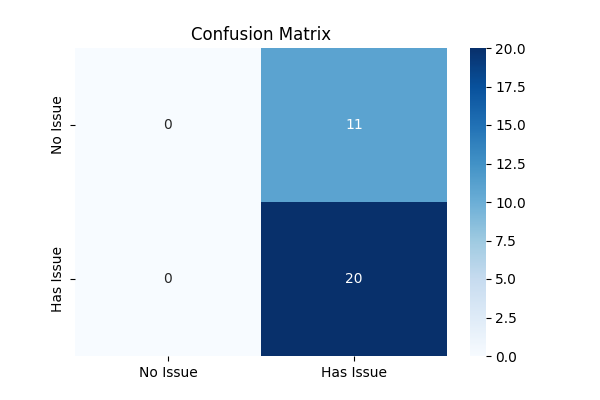
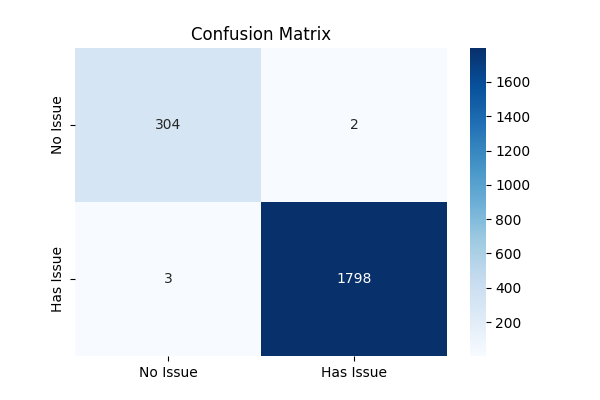
Updated ann.py

diff --git a/server/ann.py b/server/ann.py
@@ -5,6 +5,7 @@ from sklearn.neural_network import MLPClassifier
 from sklearn.model_selection import train_test_split, cross_val_score
 from sklearn.metrics import accuracy_score, classification_report, confusion_matrix
 from sklearn.pipeline import Pipeline
+from sklearn.impute import SimpleImputer
 from sklearn.inspection import permutation_importance
 from imblearn.over_sampling import SMOTE
 import matplotlib.pyplot as plt
@@ -13,7 +14,6 @@ import joblib
 import os
 
 class MentalHealthANN:
-  
     def __init__(self, df: pd.DataFrame = None, target: str = 'Mental_Health_Issue'):
         self.df = df
         self.target = target
@@ -28,9 +28,14 @@ class MentalHealthANN:
 
     def preprocess_data(self):
         # Validate required columns
-        required_cols = ['Choose your gender', 'What is your course?', 'Your current year of Study',
-                        'What is your CGPA?', 'Do you have Depression?', 'Do you have Anxiety?',
-                        'Do you have Panic attack?', 'Age']
+        required_cols = [
+            'Age', 'Course', 'Gender', 'CGPA', 'Stress_Level', 'Depression_Score',
+            'Anxiety_Score', 'Sleep_Quality', 'Physical_Activity', 'Diet_Quality',
+            'Social_Support', 'Relationship_Status', 'Substance_Use',
+            'Counseling_Service_Use', 'Family_History', 'Chronic_Illness',
+            'Financial_Stress', 'Extracurricular_Involvement', 'Semester_Credit_Load',
+            'Residence_Type'
+        ]
         missing_cols = [col for col in required_cols if col not in self.df.columns]
         if missing_cols:
             raise ValueError(f"Missing columns in dataset: {missing_cols}")
@@ -38,76 +43,85 @@ class MentalHealthANN:
         # Create target variable
         try:
             self.df[self.target] = (
-                (self.df['Do you have Depression?'] == 'Yes').astype(int) |
-                (self.df['Do you have Anxiety?'] == 'Yes').astype(int) |
-                (self.df['Do you have Panic attack?'] == 'Yes').astype(int)
+                (self.df['Depression_Score'] >= 3).astype(int) |
+                (self.df['Anxiety_Score'] >= 3).astype(int) |
+                (self.df['Stress_Level'] >= 3).astype(int)
             )
         except KeyError as e:
             raise ValueError(f"Error creating target variable: {str(e)}")
 
-        # Handle missing Age
-        self.df['Age'] = pd.to_numeric(self.df['Age'], errors='coerce').fillna(self.df['Age'].median())
+        # Initialize processed DataFrame
+        processed_data = pd.DataFrame(index=self.df.index)
 
-        # Encode categorical features
-        try:
-            self.label_encoders['gender'] = LabelEncoder()
-            self.df['Gender'] = self.label_encoders['gender'].fit_transform(
-                self.df['Choose your gender'].str.lower().fillna('unknown'))
-        except Exception as e:
-            raise ValueError(f"Error encoding Gender: {str(e)}")
+        # Handle numerical features
+        numerical_cols = [
+            'Age', 'CGPA', 'Stress_Level', 'Depression_Score', 'Anxiety_Score',
+            'Semester_Credit_Load'
+        ]
+        imputer = SimpleImputer(strategy='median')
+        numerical_data = pd.DataFrame(
+            imputer.fit_transform(self.df[numerical_cols]),
+            columns=numerical_cols,
+            index=self.df.index
+        )
+        processed_data = processed_data.join(numerical_data)
 
-        # Group majors to reduce sparsity
-        stem_majors = ['engineering', 'bit', 'bcs', 'it', 'biomedical science', 'marine science',
-                       'biotechnology', 'radiography', 'nursing', 'cts', 'koe', 'engin', 'engine']
-        social_majors = ['psychology', 'human sciences', 'laws', 'law', 'communication', 'islamic education',
-                         'pendidikan islam', 'usuluddin', 'fiqh', 'fiqh fatwa', 'human resources',
-                         'business administration', 'banking studies', 'econs', 'diploma tesl']
-        try:
-            self.df['Major_Group'] = self.df['What is your course?'].str.lower().apply(
-                lambda x: 'STEM' if isinstance(x, str) and any(m in x.lower() for m in stem_majors) else
-                          'Social Sciences' if isinstance(x, str) and any(m in x.lower() for m in social_majors) else 'Other')
-            self.label_encoders['major'] = LabelEncoder()
-            self.df['Major'] = self.label_encoders['major'].fit_transform(self.df['Major_Group'])
-        except Exception as e:
-            raise ValueError(f"Error encoding Major: {str(e)}")
-
-        # Extract year number and convert to float
-        try:
-            self.df['Year'] = self.df['Your current year of Study'].str.lower().str.extract(r'(\d+)').astype(float).fillna(1.0)
-        except Exception as e:
-            raise ValueError(f"Error processing Year: {str(e)}")
-
-        # Convert GPA ranges to numerical values
-        gpa_map = {
-            '0 - 1.99': 1.0, '2.00 - 2.49': 2.25, '2.50 - 2.99': 2.75,
-            '3.00 - 3.49': 3.25, '3.50 - 4.00': 3.75
+        # Handle categorical features with ordinal encoding
+        categorical_cols = [
+            'Gender', 'Course', 'Sleep_Quality', 'Physical_Activity', 'Diet_Quality',
+            'Social_Support', 'Relationship_Status', 'Substance_Use',
+            'Counseling_Service_Use', 'Family_History', 'Chronic_Illness',
+            'Residence_Type', 'Financial_Stress', 'Extracurricular_Involvement'
+        ]
+        ordinal_mappings = {
+            'Financial_Stress': {'unknown': 0, 'low': 0, 'moderate': 1, 'high': 2},
+            'Extracurricular_Involvement': {'unknown': 0, 'low': 0, 'moderate': 1, 'high': 2},
+            'Sleep_Quality': {'unknown': 0, 'poor': 0, 'average': 1, 'good': 2},
+            'Physical_Activity': {'unknown': 0, 'low': 0, 'moderate': 1, 'high': 2},
+            'Diet_Quality': {'unknown': 0, 'poor': 0, 'average': 1, 'good': 2},
+            'Social_Support': {'unknown': 0, 'low': 0, 'moderate': 1, 'high': 2}
         }
-        try:
-            self.df['GPA'] = self.df['What is your CGPA?'].map(gpa_map).fillna(3.0)
-        except Exception as e:
-            raise ValueError(f"Error processing GPA: {str(e)}")
+        for col in categorical_cols:
+            try:
+                self.df[col] = self.df[col].replace(['', ' ', None, np.nan], 'unknown').astype(str).str.lower()
+                if col in ordinal_mappings:
+                    processed_data[col] = self.df[col].map(ordinal_mappings[col]).fillna(0).astype(int)
+                else:
+                    self.label_encoders[col] = LabelEncoder()
+                    processed_data[col] = self.label_encoders[col].fit_transform(self.df[col])
+            except Exception as e:
+                raise ValueError(f"Error encoding {col}: {str(e)}")
 
-        # Select features and handle missing values
-        features = ['Gender', 'Age', 'Major', 'Year', 'GPA']
+        # Validate column lengths
+        for col in processed_data.columns:
+            if len(processed_data[col]) != len(self.df):
+                raise ValueError(f"Column {col} has {len(processed_data[col])} samples, expected {len(self.df)}")
+
+        # Select features and ensure no NaNs
+        features = numerical_cols + categorical_cols
         try:
-            self.df[features] = self.df[features].fillna(self.df[features].mean())
-            self.X = self.df[features]
+            self.X = processed_data[features]
             self.y = self.df[self.target]
+            if self.X.isna().any().any():
+                raise ValueError("NaN values remain in features after preprocessing")
+            if len(self.X) != len(self.y):
+                raise ValueError(f"X has {len(self.X)} samples, y has {len(self.y)} samples")
         except KeyError as e:
             raise ValueError(f"Error selecting features: {str(e)}")
 
         print(f"Dataset size: {self.X.shape[0]} samples")
-        print(f"Class distribution:\n{self.y.value_counts()}")
+        print(f"Class distribution:\n{self.y.value_counts(normalize=True)}")
 
     def plot_correlation_heatmap(self):
         if self.X is None or self.y is None:
             raise ValueError("Data not preprocessed. Call preprocess_data() first.")
-        corr_matrix = self.df[['Gender', 'Age', 'Major', 'Year', 'GPA', self.target]].corr()
-        plt.figure(figsize=(8, 6))
+        corr_cols = ['Age', 'CGPA', 'Stress_Level', 'Depression_Score', 'Anxiety_Score', self.target]
+        corr_matrix = pd.concat([self.X[corr_cols[:-1]], self.y], axis=1).corr()
+        plt.figure(figsize=(10, 8))
         sns.heatmap(corr_matrix, annot=True, cmap='coolwarm', vmin=-1, vmax=1, center=0)
-        plt.title('Correlation Heatmap: Mental Health and Features')
+        plt.title('Correlation Heatmap: Mental Health and Key Features')
         plt.tight_layout()
-        plt.savefig('heatmap.png')
+        plt.savefig('server/heatmap.png')
         plt.close()
 
     def is_trained(self):
@@ -128,16 +142,18 @@ class MentalHealthANN:
             self.X, self.y, test_size=0.3, random_state=42, stratify=self.y)
 
         # Handle class imbalance with SMOTE
-        smote = SMOTE(random_state=42, k_neighbors=3)  # Reduced k_neighbors for small dataset
+        minority_count = min(y_train.value_counts())
+        k_neighbors = min(5, minority_count - 1) if minority_count > 1 else 1
+        smote = SMOTE(random_state=42, k_neighbors=k_neighbors)
         X_train_res, y_train_res = smote.fit_resample(X_train, y_train)
 
         pipeline = Pipeline([
             ('scaler', StandardScaler()),
             ('mlp', MLPClassifier(
-                hidden_layer_sizes=(10, 5),  # Reduced to prevent overfitting
+                hidden_layer_sizes=(20, 10),
                 activation='relu',
                 solver='adam',
-                alpha=0.01,  # Stronger regularization
+                alpha=0.001,
                 learning_rate='adaptive',
                 max_iter=max_iter,
                 random_state=42,
@@ -154,7 +170,7 @@ class MentalHealthANN:
         y_pred = pipeline.predict(X_test)
         print(f"\nAccuracy: {accuracy_score(y_test, y_pred):.2f}")
         print("\nClassification Report:")
-        print(classification_report(y_test, y_pred))
+        print(classification_report(y_test, y_pred, zero_division=0))
 
         # Cross-validation
         cv_scores = cross_val_score(pipeline, self.X, self.y, cv=5, scoring='recall_macro')
@@ -167,7 +183,7 @@ class MentalHealthANN:
                     xticklabels=['No Issue', 'Has Issue'],
                     yticklabels=['No Issue', 'Has Issue'])
         plt.title('Confusion Matrix')
-        plt.savefig('confusion_matrix.png')
+        plt.savefig('server/confusion_matrix.png')
         plt.close()
 
         # Feature importance
@@ -182,20 +198,31 @@ class MentalHealthANN:
     def predict_from_dict(self, input_data: dict):
         if not self.is_trained():
             raise Exception("Model not trained. Call train() first.")
-        try:
-            # Prepare input DataFrame with column names
-            major = str(input_data.get('major', 'STEM')).lower()
-            if major not in self.label_encoders['major'].classes_:
-                major = 'STEM'  # Fallback to a known category
-            input_df = pd.DataFrame([{
-                'Gender': self.label_encoders['gender'].transform(
-                    [str(input_data.get('gender', 'Male')).lower()])[0],
-                'Age': float(input_data.get('age', 20)),
-                'Major': self.label_encoders['major'].transform([major])[0],
-                'Year': float(input_data.get('year', 2)),
-                'GPA': float(input_data.get('gpa', 3.5))
-            }], columns=['Gender', 'Age', 'Major', 'Year', 'GPA'])
 
+        try:
+            input_dict = {}
+            for col in self.X.columns:
+                if col in self.label_encoders:
+                    val = str(input_data.get(col.lower(), 'unknown')).lower()
+                    if val not in self.label_encoders[col].classes_:
+                        val = 'unknown'
+                    input_dict[col] = self.label_encoders[col].transform([val])[0]
+                elif col in ['Financial_Stress', 'Extracurricular_Involvement', 'Sleep_Quality',
+                            'Physical_Activity', 'Diet_Quality', 'Social_Support']:
+                    mapping = {
+                        'Financial_Stress': {'unknown': 0, 'low': 0, 'moderate': 1, 'high': 2},
+                        'Extracurricular_Involvement': {'unknown': 0, 'low': 0, 'moderate': 1, 'high': 2},
+                        'Sleep_Quality': {'unknown': 0, 'poor': 0, 'average': 1, 'good': 2},
+                        'Physical_Activity': {'unknown': 0, 'low': 0, 'moderate': 1, 'high': 2},
+                        'Diet_Quality': {'unknown': 0, 'poor': 0, 'average': 1, 'good': 2},
+                        'Social_Support': {'unknown': 0, 'low': 0, 'moderate': 1, 'high': 2}
+                    }[col]
+                    val = str(input_data.get(col.lower(), 'unknown')).lower()
+                    input_dict[col] = mapping.get(val, 0)
+                else:
+                    input_dict[col] = float(input_data.get(col.lower(), self.X[col].median()))
+
+            input_df = pd.DataFrame([input_dict], columns=self.X.columns)
             proba = self.model.predict_proba(input_df)[0]
             prediction = int(self.model.predict(input_df)[0])
 
@@ -210,27 +237,27 @@ class MentalHealthANN:
 
     def predict(self, new_data: pd.DataFrame):
         if not self.is_trained():
-            raise Exception("No Model trained yet!")
+            raise Exception("No Model trained yet")
         if not all(col in self.X.columns for col in new_data.columns):
-            raise Exception("Missing columns in new data!")
+            raise Exception("Missing columns in new data")
         return self.model.predict(new_data)
 
     def predict_proba(self, new_data: pd.DataFrame):
         if not self.is_trained():
-            raise Exception("No Model trained yet!")
+            raise Exception("No Model trained yet")
         if not all(col in self.X.columns for col in new_data.columns):
-            raise Exception("Missing columns in new data!")
+            raise Exception("Missing columns in new data")
         return self.model.predict_proba(new_data)[:, 1]
 
     def score(self):
         if not self.is_trained():
-            raise Exception("No Model trained yet!")
+            raise Exception("No Model trained yet")
         return self.model.score(self.X, self.y)
 
 if __name__ == "__main__":
     try:
         # Load data
-        csv_path = os.path.join(os.path.dirname(__file__), 'student-mental-health.csv')
+        csv_path = os.path.join(os.path.dirname(__file__), 'students_mental_health_survey.csv')
         df = pd.read_csv(csv_path)
 
         # Initialize and preprocess
@@ -246,9 +273,24 @@ if __name__ == "__main__":
         result = ann.predict_from_dict({
             'gender': 'Female',
             'age': 20,
-            'major': 'Engineering',
-            'year': 2,
-            'gpa': 3.25
+            'course': 'Engineering',
+            'cgpa': 3.25,
+            'stress_level': 2,
+            'depression_score': 1,
+            'anxiety_score': 1,
+            'sleep_quality': 'Good',
+            'physical_activity': 'Moderate',
+            'diet_quality': 'Average',
+            'social_support': 'Moderate',
+            'relationship_status': 'Single',
+            'substance_use': 'Never',
+            'counseling_service_use': 'Never',
+            'family_history': 'No',
+            'chronic_illness': 'No',
+            'financial_stress': 'Moderate',
+            'extracurricular_involvement': 'Moderate',
+            'semester_credit_load': 20,
+            'residence_type': 'Off-Campus'
         })
 
         if result:
